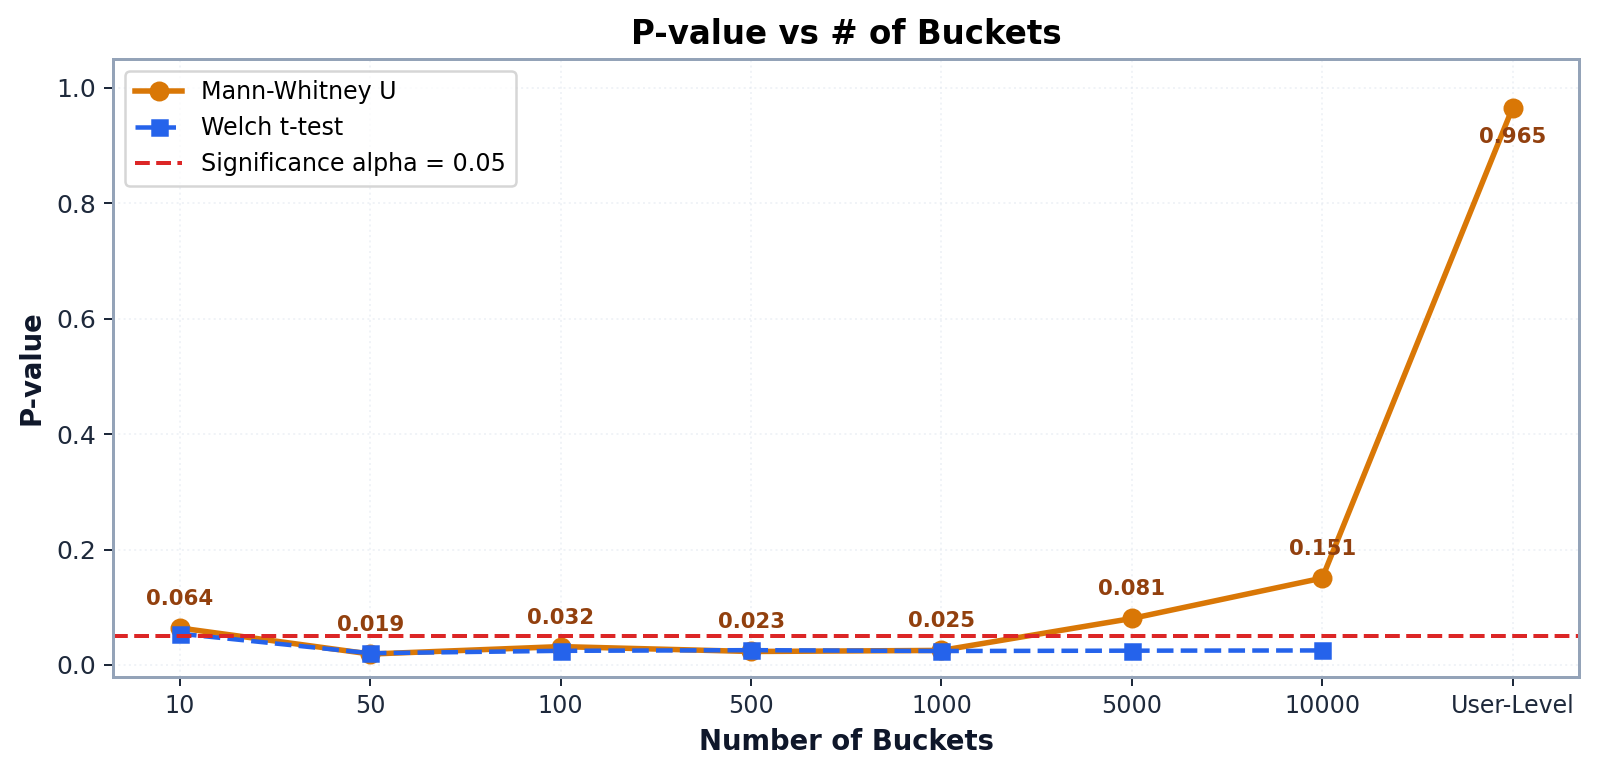
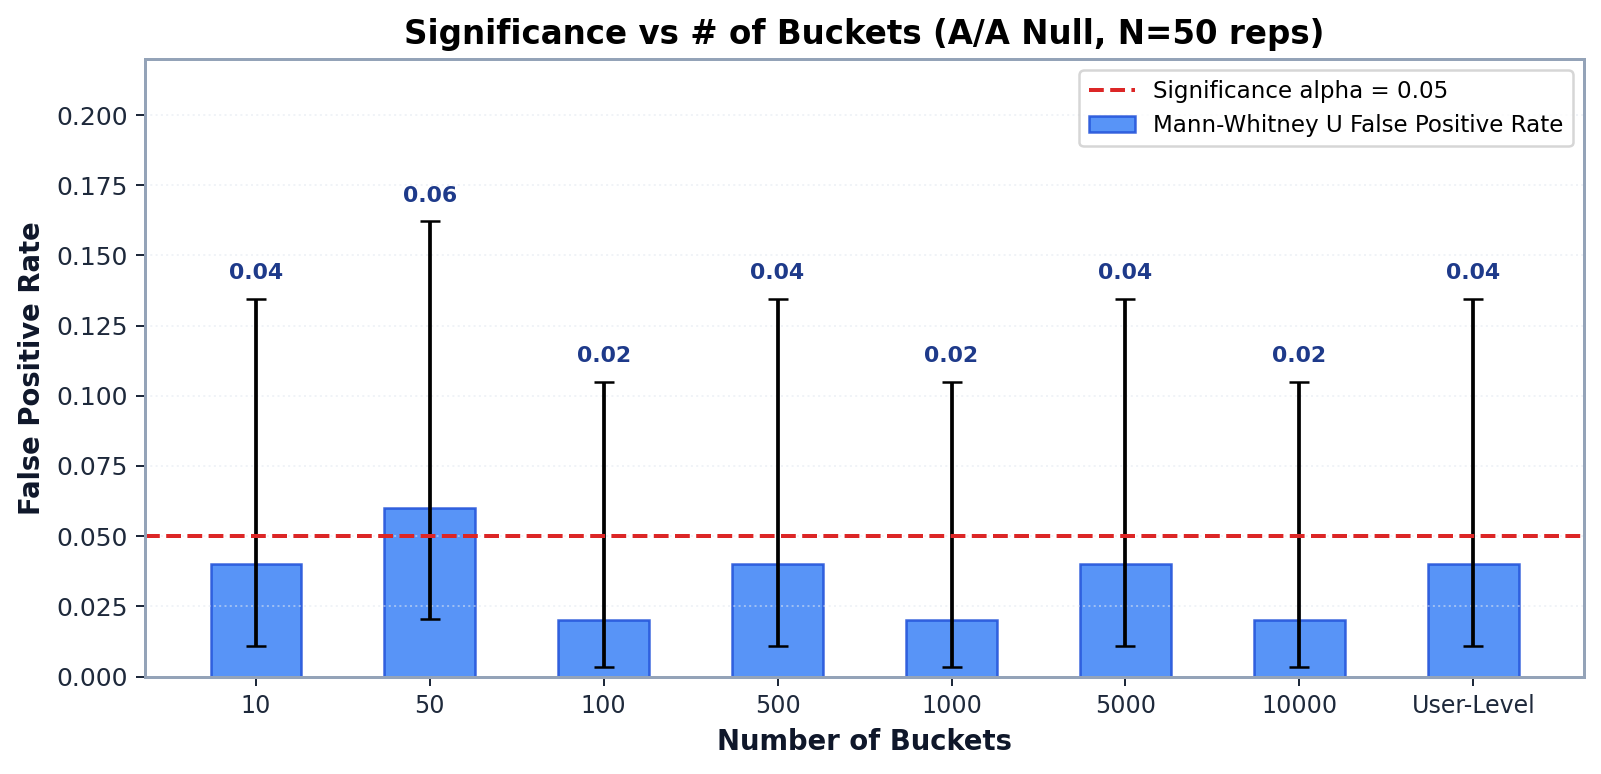
feat: organize Slide 7 as A/A significance and Slide 8 as A/B power & detection

diff --git a/presentation/index.html b/presentation/index.html
@@ -601,34 +601,34 @@
       </div>
     </div>
 
-    <!-- Slide 7: P-value vs # of Buckets -->
+    <!-- Slide 7: Significance: A/A False Positive Rate -->
     <div class="slide" data-index="7">
       <div class="slide-header">
-        <div class="slide-title">P-value vs # of Buckets</div>
+        <div class="slide-title">Significance: A/A False Positive Rate</div>
       </div>
       <div class="slide-content">
         <div class="figure-container">
-          <img src="../results/plots/pres_figure4_pvalues.png" alt="P-value vs # of Buckets">
+          <img src="../results/plots/pres_figure4_pvalues.png" alt="Significance vs # of Buckets (A/A Null)">
         </div>
       </div>
       <div class="deck-footer">
-        <span>Empirical P-values across Bucket Counts</span>
+        <span>Significance across Bucket Counts (A/A Null)</span>
         <span>Slide 7 / 13</span>
       </div>
     </div>
 
-    <!-- Slide 8: Power and Significance by Bucket Count -->
+    <!-- Slide 8: Statistical Power: A/B Detection Performance -->
     <div class="slide" data-index="8">
       <div class="slide-header">
-        <div class="slide-title">Power and Significance by Bucket Count</div>
+        <div class="slide-title">Statistical Power: A/B Detection Performance</div>
       </div>
       <div class="slide-content">
         <div class="figure-container">
-          <img src="../results/plots/pres_figure5_power_significance.png" alt="Power and Significance by Bucket Count">
+          <img src="../results/plots/pres_figure5_power_significance.png" alt="Statistical Power & Detection (A/B Test)">
         </div>
       </div>
       <div class="deck-footer">
-        <span>Power and Significance</span>
+        <span>Power &amp; Detection across Bucket Counts (A/B Test)</span>
         <span>Slide 8 / 13</span>
       </div>
     </div>

diff --git a/generate_presentation_assets.py b/generate_presentation_assets.py
@@ -139,35 +139,35 @@ def make_pres_figure_2(df_a: pd.DataFrame, out_path: Path):
 
 
 def make_pres_figure_4(out_path: Path):
-    """Figure 4 for Slide 5: P-value vs # of Buckets."""
-    df_single = pd.read_csv("results/tables/table4_single_run.csv")
-    df_single["K"] = df_single["Aggregation Level"].apply(lambda s: int(s.split()[0]))
+    """Figure 4 for Slide 7: Significance (False Positive Rate) vs # of Buckets (A/A Null, Uplift = 0%)."""
+    df_null = pd.read_csv("results/tables/table3_null_rejections.csv")
 
     fig, ax = plt.subplots(figsize=(9, 4.4), dpi=180)
 
-    mwu_data = df_single[df_single["Test"] == "Mann-Whitney U"].sort_values("K")
-    welch_data = df_single[df_single["Test"] == "Welch t-test"].sort_values("K")
+    mwu_null = df_null[df_null["Test"] == "Mann-Whitney U"].sort_values("K")
+    k_vals = mwu_null["K"].values
+    fpr_vals = mwu_null["False Positive Rate"].values
+    ci_low = mwu_null["95% CI Lower"].values
+    ci_high = mwu_null["95% CI Upper"].values
 
-    x_labels = [f"{k}" if k < 100000 else "User-Level" for k in mwu_data["K"]]
-    x_pos = np.arange(len(mwu_data))
+    x_pos = np.arange(len(k_vals))
+    x_lbls = [f"{k}" if k < 100000 else "User-Level" for k in k_vals]
 
-    ax.plot(x_pos, mwu_data["p-value"], "o-", color="#d97706", linewidth=2.2, markersize=7, label="Mann-Whitney U")
-    ax.plot(x_pos[:-1], welch_data["p-value"], "s--", color="#2563eb", linewidth=1.8, markersize=6, label="Welch t-test")
-
+    yerr = [fpr_vals - ci_low, ci_high - fpr_vals]
+    ax.bar(x_pos, fpr_vals, color="#3b82f6", edgecolor="#1d4ed8", alpha=0.85, width=0.52, yerr=yerr, capsize=4, label="Mann-Whitney U False Positive Rate")
     ax.axhline(0.05, color="#dc2626", linestyle="--", linewidth=1.6, label="Significance alpha = 0.05")
 
-    for x, p in zip(x_pos, mwu_data["p-value"]):
-        offset = 0.04 if p < 0.2 else -0.06
-        ax.text(x, p + offset, f"{p:.3f}", ha="center", fontsize=8.5, fontweight="bold", color="#92400e")
+    for x, val, high in zip(x_pos, fpr_vals, ci_high):
+        ax.text(x, high + 0.007, f"{val:.2f}", ha="center", fontsize=8.8, fontweight="bold", color="#1e3a8a")
 
     ax.set_xticks(x_pos)
-    ax.set_xticklabels(x_labels, fontsize=9.5)
+    ax.set_xticklabels(x_lbls, fontsize=9.5)
     ax.set_xlabel("Number of Buckets", fontsize=11, fontweight="bold")
-    ax.set_ylabel("P-value", fontsize=11, fontweight="bold")
-    ax.set_title("P-value vs # of Buckets", fontsize=13, fontweight="bold")
-    ax.set_ylim(-0.02, 1.05)
-    ax.grid(True, linestyle=":", alpha=0.5)
-    ax.legend(loc="upper left", fontsize=9.5)
+    ax.set_ylabel("False Positive Rate", fontsize=11, fontweight="bold")
+    ax.set_title("Significance vs # of Buckets (A/A Null, N=50 reps)", fontsize=13, fontweight="bold")
+    ax.set_ylim(0, 0.22)
+    ax.grid(True, linestyle=":", alpha=0.5, axis="y")
+    ax.legend(loc="upper right", fontsize=9.2)
 
     plt.tight_layout()
     plt.savefig(out_path, bbox_inches="tight")
@@ -175,13 +175,39 @@ def make_pres_figure_4(out_path: Path):
 
 
 def make_pres_figure_5(out_path: Path):
-    """Figure 5 for Slide 6: Power vs Uplift (with CI and vertical 2.3% line) & Significance vs K."""
+    """Figure 5 for Slide 8: Both A/B Plots - Panel A: P-value vs K (B has +2.3% Lift), Panel B: Power vs Uplift."""
+    df_single = pd.read_csv("results/tables/table4_single_run.csv")
+    df_single["K"] = df_single["Aggregation Level"].apply(lambda s: int(s.split()[0]))
     df_power = pd.read_csv("results/tables/table5_power_summary.csv")
-    df_null = pd.read_csv("results/tables/table3_null_rejections.csv")
 
-    fig, (ax_power, ax_signif) = plt.subplots(1, 2, figsize=(14.5, 4.8), dpi=180)
+    fig, (ax_pval, ax_power) = plt.subplots(1, 2, figsize=(14.5, 4.8), dpi=180)
 
-    # Panel A: Power vs Uplift
+    # Panel A: P-value vs # of Buckets (B has +2.3% Lift)
+    mwu_data = df_single[df_single["Test"] == "Mann-Whitney U"].sort_values("K")
+    welch_data = df_single[df_single["Test"] == "Welch t-test"].sort_values("K")
+
+    x_labels = [f"{k}" if k < 100000 else "User-Level" for k in mwu_data["K"]]
+    x_pos = np.arange(len(mwu_data))
+
+    ax_pval.plot(x_pos, mwu_data["p-value"], "o-", color="#d97706", linewidth=2.2, markersize=6.5, label="Mann-Whitney U")
+    ax_pval.plot(x_pos[:-1], welch_data["p-value"], "s--", color="#2563eb", linewidth=1.8, markersize=5.5, label="Welch t-test")
+
+    ax_pval.axhline(0.05, color="#dc2626", linestyle="--", linewidth=1.6, label="alpha = 0.05")
+
+    for x, p in zip(x_pos, mwu_data["p-value"]):
+        offset = 0.045 if p < 0.2 else -0.065
+        ax_pval.text(x, p + offset, f"{p:.3f}", ha="center", fontsize=8.5, fontweight="bold", color="#92400e")
+
+    ax_pval.set_xticks(x_pos)
+    ax_pval.set_xticklabels(x_labels, fontsize=9.0)
+    ax_pval.set_xlabel("Number of Buckets", fontsize=11, fontweight="bold")
+    ax_pval.set_ylabel("P-value", fontsize=11, fontweight="bold")
+    ax_pval.set_title("P-value vs # of Buckets (B has +2.3% Lift)", fontsize=12, fontweight="bold")
+    ax_pval.set_ylim(-0.02, 1.05)
+    ax_pval.grid(True, linestyle=":", alpha=0.5)
+    ax_pval.legend(loc="upper left", fontsize=8.8)
+
+    # Panel B: Power vs Uplift
     highlight_k = [10, 50, 100, 1000, 10000, 100000]
     colors = ["#2563eb", "#059669", "#16a34a", "#854d0e", "#64748b", "#dc2626"]
     deltas = sorted(df_power["Target Uplift (delta)"].unique())
@@ -207,38 +233,12 @@ def make_pres_figure_5(out_path: Path):
     ax_power.tick_params(axis='x', rotation=30)
     ax_power.set_xlabel("Uplift", fontsize=11, fontweight="bold")
     ax_power.set_ylabel("Power", fontsize=11, fontweight="bold")
-    ax_power.set_title("Power vs. Uplift", fontsize=12, fontweight="bold")
+    ax_power.set_title("Statistical Power vs. Uplift", fontsize=12, fontweight="bold")
     ax_power.set_ylim(-0.02, 1.05)
     ax_power.grid(True, linestyle=":", alpha=0.5)
     ax_power.legend(loc="lower right", fontsize=8.2)
 
-    # Panel B: Significance (FPR) vs K
-    mwu_null = df_null[df_null["Test"] == "Mann-Whitney U"].sort_values("K")
-    k_vals = mwu_null["K"].values
-    fpr_vals = mwu_null["False Positive Rate"].values
-    ci_low = mwu_null["95% CI Lower"].values
-    ci_high = mwu_null["95% CI Upper"].values
-
-    x_pos = np.arange(len(k_vals))
-    x_lbls = [f"{k}" if k < 100000 else "User-Level" for k in k_vals]
-
-    yerr = [fpr_vals - ci_low, ci_high - fpr_vals]
-    ax_signif.bar(x_pos, fpr_vals, color="#3b82f6", edgecolor="#1d4ed8", alpha=0.85, width=0.55, yerr=yerr, capsize=3.5, label="MWU False Positive Rate")
-    ax_signif.axhline(0.05, color="#dc2626", linestyle="--", linewidth=1.6, label="Significance alpha = 0.05")
-
-    for x, val, high in zip(x_pos, fpr_vals, ci_high):
-        ax_signif.text(x, high + 0.006, f"{val:.2f}", ha="center", fontsize=8.5, fontweight="bold", color="#1e3a8a")
-
-    ax_signif.set_xticks(x_pos)
-    ax_signif.set_xticklabels(x_lbls, fontsize=9.0)
-    ax_signif.set_xlabel("Number of Buckets", fontsize=11, fontweight="bold")
-    ax_signif.set_ylabel("False Positive Rate", fontsize=11, fontweight="bold")
-    ax_signif.set_title("Significance vs. # of Buckets (N=50 reps)", fontsize=12, fontweight="bold")
-    ax_signif.set_ylim(0, 0.22)
-    ax_signif.grid(True, linestyle=":", alpha=0.5, axis="y")
-    ax_signif.legend(loc="upper right", fontsize=8.8)
-
-    plt.suptitle("Power and Significance by Bucket Count", fontsize=13, fontweight="bold", y=1.04)
+    plt.suptitle("Statistical Power & Detection by Bucket Count (A/B Test)", fontsize=13, fontweight="bold", y=1.04)
     plt.tight_layout()
     plt.savefig(out_path, bbox_inches="tight")
     plt.close()

diff --git a/presentation/slides.md b/presentation/slides.md
@@ -64,18 +64,18 @@
 
 ---
 
-### Slide 7: P-value vs # of Buckets
-- **Title**: P-value vs # of Buckets
+### Slide 7: Significance: A/A False Positive Rate
+- **Title**: Significance: A/A False Positive Rate
 - **Figure**: [pres_figure4_pvalues.png](file:///home/vagiz/Desktop/desktop_vagiz/duke/sda/project2/results/plots/pres_figure4_pvalues.png)
-- Single plot showing P-value curve across $K$ under true treatment $\delta = +2.3\%$.
+- Single plot showing False Positive Rate across $K$ under the null ($\text{Uplift} = 0\%$, $N=50$ repetitions, 95% Wilson CIs).
 
 ---
 
-### Slide 8: Power and Significance by Bucket Count
-- **Title**: Power and Significance by Bucket Count
+### Slide 8: Statistical Power: A/B Detection Performance
+- **Title**: Statistical Power: A/B Detection Performance
 - **Figure**: [pres_figure5_power_significance.png](file:///home/vagiz/Desktop/desktop_vagiz/duke/sda/project2/results/plots/pres_figure5_power_significance.png)
-- Panel A: Power vs. Uplift (vertical line at $\delta = 2.3\%$, 95% Wilson CIs).
-- Panel B: Significance vs. # of Buckets ($N=50$ repetitions, 95% Wilson CIs).
+- Panel A: P-value vs # of Buckets (B has +2.3% Lift). Shows user-level blindness ($p=0.965$) vs bucket sensitivity ($p=0.032$).
+- Panel B: Power vs. Uplift (B has Lift). Shaded regions show 95% Wilson CIs; vertical line at $\delta = 2.3\%$.
 
 ---
 
